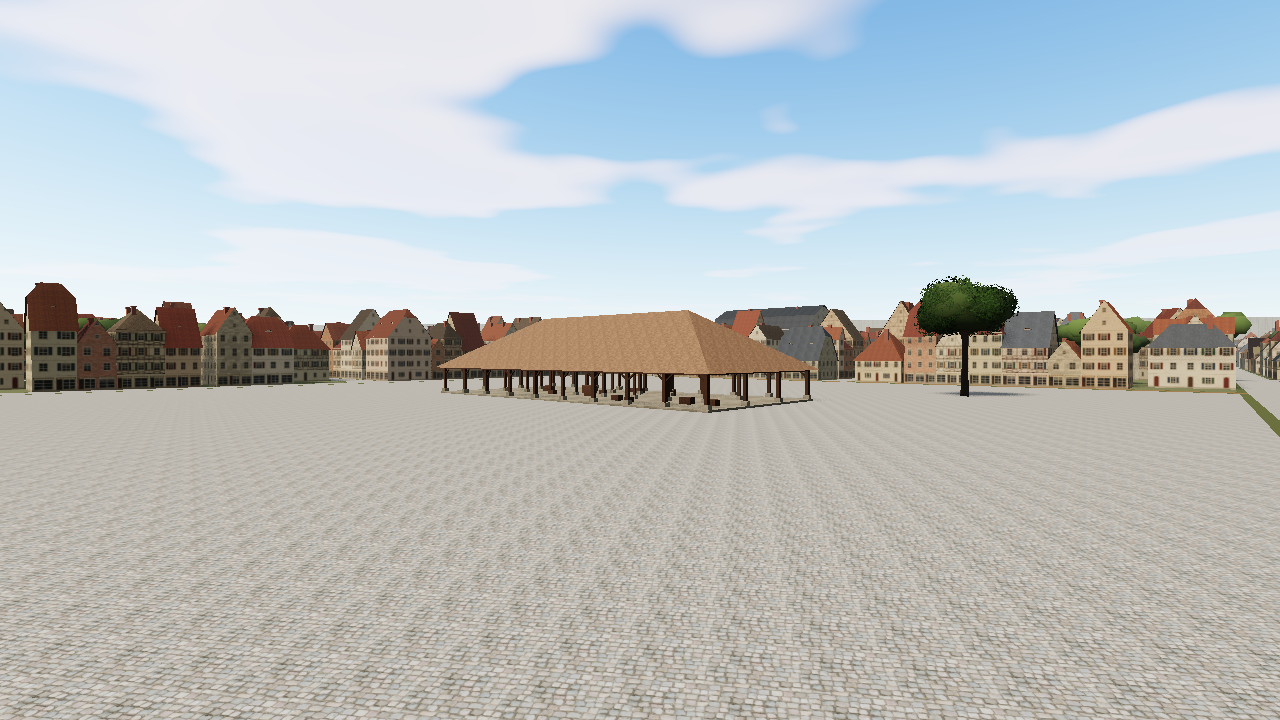
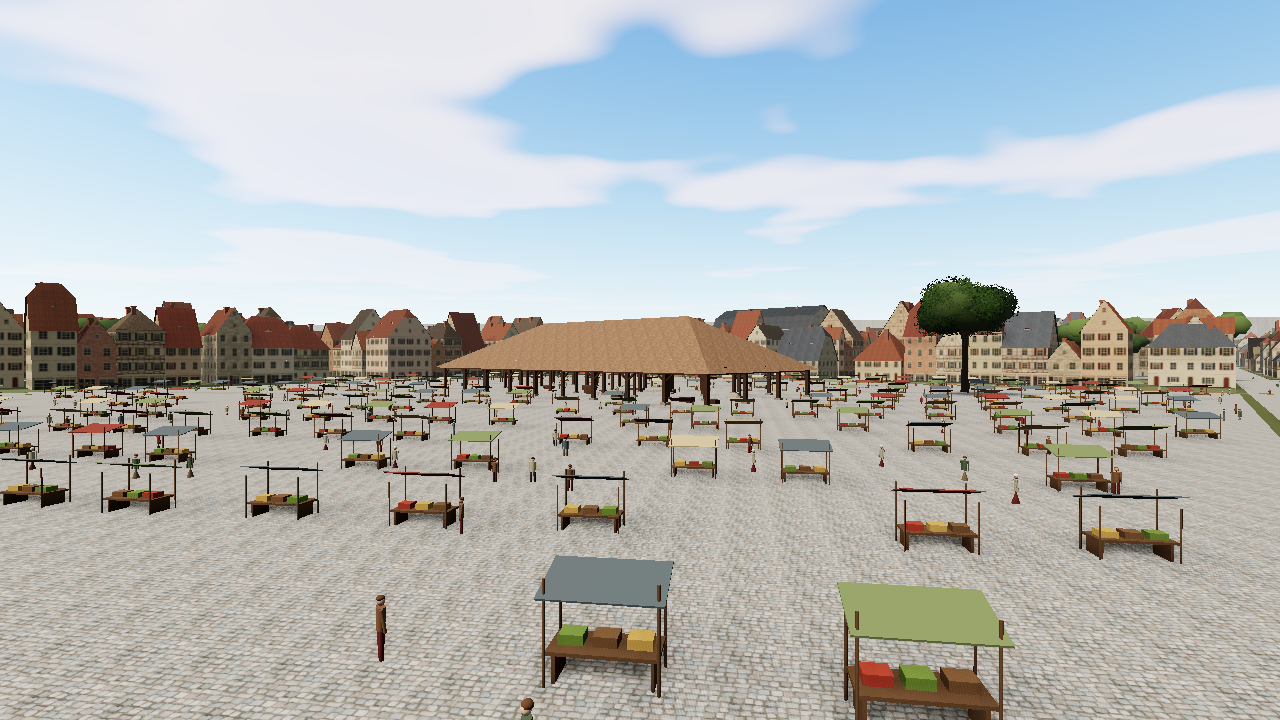
Dette n° 12 (suite) : halle aux draps de Quinta à étage et beffroi, couverture d'ardoise rendue
Claude-Session: https://claude.ai/code/session_01QkVHPRrYAvmotTxhToJVAL

diff --git a/src/render/tactical3d/places/landmarks3d.ts b/src/render/tactical3d/places/landmarks3d.ts
@@ -281,7 +281,11 @@ function hall(k: Kit, b: Building, rand: Rand): void {
   const n = typeof P["piliers"] === "number" ? P["piliers"] : 8;
   const pente = ((typeof P["pente"] === "number" ? P["pente"] : 40) * Math.PI) / 180;
   const eave = 4.6;
-  const rise = Math.min((D / 2) * Math.tan(pente), b.hauteur_m - eave);
+  // Dette n° 12 : halle à étage (`etage` : magasin fermé en pan de bois au-dessus de la halle ouverte, comme une halle aux
+  // draps) et `beffroi` (lanterne à cloche sur le faîtage) ; formes et proportions : choix de rendu (A).
+  const upper = P["etage"] === true ? 4.2 : 0;
+  const roofY = eave + 0.9 + upper;
+  const rise = Math.min((D / 2) * Math.tan(pente), b.hauteur_m - roofY);
   const ruin = (b as Building & { ruin?: number }).ruin ?? 0;
   const stone = new Color(0xb9b0a2);
   box(k, k.stone, -W / 2 - 0.6, W / 2 + 0.6, -D / 2 - 0.6, D / 2 + 0.6, 0, 0.35, stone);
@@ -313,7 +317,41 @@ function hall(k: Kit, b: Building, rand: Rand): void {
         g.dispose();
       }
     }
-  hip(k, k.roof, -W / 2, W / 2, -D / 2, D / 2, eave + 0.9, rise, new Color(b.teinte).lerp(new Color(0xa0644a), 0.55), 1.4);
+  if (upper > 0) {
+    // Étage en encorbellement (0,5 m) : remplissage clair, poteaux et décharges de bois, fenêtres basses en bandeau.
+    const o = 0.5;
+    const y0 = eave + 0.9;
+    const fill = new Color(b.teinte).lerp(new Color(0xe6dcc6), 0.5);
+    box(k, k.stone, -W / 2 - o, W / 2 + o, -D / 2 - o, D / 2 + o, y0, y0 + upper, fill, false);
+    const studs = Math.max(4, Math.round(W / 2.2));
+    for (let i = 0; i <= studs; i++) {
+      const u = -W / 2 - o + (i * (W + 2 * o)) / studs;
+      for (const v of [-D / 2 - o - 0.06, D / 2 + o + 0.06]) box(k, k.wood, u - 0.16, u + 0.16, v - 0.06, v + 0.06, y0, y0 + upper, OAK);
+      if (i < studs && i % 2 === 0)
+        for (const v of [-D / 2 - o - 0.09, D / 2 + o + 0.09]) {
+          const wx = (W + 2 * o) / studs;
+          box(k, k.dark, u + wx * 0.25, u + wx * 0.75, v - 0.04, v + 0.04, y0 + upper * 0.45, y0 + upper * 0.8, GLASS);
+        }
+    }
+    for (const yy of [y0, y0 + upper * 0.4, y0 + upper]) for (const v of [-D / 2 - o - 0.07, D / 2 + o + 0.07]) box(k, k.wood, -W / 2 - o, W / 2 + o, v - 0.07, v + 0.07, yy - 0.12, yy + 0.12, OAK);
+    for (const u of [-W / 2 - o - 0.07, W / 2 + o + 0.07]) {
+      box(k, k.wood, u - 0.07, u + 0.07, -D / 2 - o, D / 2 + o, y0 - 0.12, y0 + 0.12, OAK);
+      box(k, k.wood, u - 0.07, u + 0.07, -D / 2 - o, D / 2 + o, y0 + upper - 0.12, y0 + upper + 0.12, OAK);
+      for (let j = 0; j <= 4; j++) box(k, k.wood, u - 0.06, u + 0.06, -D / 2 - o + (j * (D + 2 * o)) / 4 - 0.16, -D / 2 - o + (j * (D + 2 * o)) / 4 + 0.16, y0, y0 + upper, OAK);
+    }
+  }
+  // Couverture du plan : ardoise grise, sinon tuile plate (teinte de la halle tirée vers le rouge des tuiles).
+  const roofColor = b.couverture === "ardoise" ? SLATE.clone().lerp(new Color(b.teinte), 0.12) : new Color(b.teinte).lerp(new Color(0xa0644a), 0.55);
+  hip(k, k.roof, -W / 2 - (upper ? 0.5 : 0), W / 2 + (upper ? 0.5 : 0), -D / 2 - (upper ? 0.5 : 0), D / 2 + (upper ? 0.5 : 0), roofY, rise, roofColor, 1.4);
+  if (P["beffroi"] === true) {
+    // Lanterne carrée sur le milieu du faîtage : socle, baies ouvertes (cloche), flèche pyramidale.
+    const s = Math.min(D * 0.18, 3.2);
+    const yb = roofY + rise - 0.6;
+    box(k, k.wood, -s, s, -s, s, yb, yb + 2.2, OAK.clone().multiplyScalar(0.9));
+    for (const [u, v] of [[-s, -s], [s, -s], [s, s], [-s, s]] as const) box(k, k.wood, u - 0.22, u + 0.22, v - 0.22, v + 0.22, yb + 2.2, yb + 4.6, OAK);
+    box(k, k.iron, -0.7, 0.7, -0.7, 0.7, yb + 2.6, yb + 3.9, IRON);
+    hip(k, k.roof, -s, s, -s, s, yb + 4.6, s * 2.6, roofColor.clone().lerp(SLATE, 0.6), 0.5);
+  }
   // Sacs et caisses sous la halle (échelle humaine).
   for (let i = 0; i < 14; i++) {
     const u = -W / 2 + 3 + rand() * (W - 6);

diff --git a/src/tools/places/auteur/maria-district-4.ts b/src/tools/places/auteur/maria-district-4.ts
@@ -105,7 +105,8 @@ export function mariaDistrict4(): Place {
       const a = ctx.rot;
       return [
         building({ id: "grande-halle", nom: "Grande halle du marché", canon: "A", archetype: "halle", position: mid(c(170, 595), c(255, 680)), emprise_m: [60, 26], angle_deg: a, hauteur_m: 13, etages: 1, toit: "croupe", couverture: "tuile_plate", facade: "bois", teinte: "#C7AC86", params: { piliers: 10, pente: 42 } }),
-        building({ id: "halle-aux-draps", nom: "Halle aux draps", canon: "A", archetype: "halle", position: mid(c(-255, 680), c(-170, 765)), emprise_m: [44, 22], angle_deg: a, hauteur_m: 12, etages: 1, toit: "croupe", couverture: "ardoise", facade: "bois", teinte: "#CBB896", params: { piliers: 8, pente: 44 } }),
+        // Dette n° 12 : halle aux draps distincte de la grande halle (étage fermé en pan de bois, beffroi), choix de forme (A).
+        building({ id: "halle-aux-draps", nom: "Halle aux draps", canon: "A", archetype: "halle", position: mid(c(-255, 680), c(-170, 765)), emprise_m: [44, 22], angle_deg: a, hauteur_m: 18, etages: 2, toit: "croupe", couverture: "ardoise", facade: "bois", teinte: "#CBB896", params: { piliers: 8, pente: 44, etage: true, beffroi: true } }),
         building({ id: "hotel-de-ville", nom: "Hôtel de ville", canon: "A", archetype: "hotel_de_ville", position: c(170, 510), emprise_m: [40, 20], angle_deg: a, hauteur_m: 16, etages: 4, toit: "mansarde", couverture: "ardoise", facade: "pierre_taillee", teinte: "#E8E0CF", params: { pente: 56 } }),
         building({ id: "maison-du-change", nom: "Maison du Change", canon: "A", archetype: "hotel_de_ville", position: c(340, 340), emprise_m: [26, 16], angle_deg: a, hauteur_m: 13, etages: 3, toit: "croupe", couverture: "ardoise", facade: "pierre_taillee", teinte: "#EDE4D2", params: { pente: 50 } }),
         building({ id: "eglise", nom: "Église du marché", canon: "A", archetype: "eglise", position: c(340, 425), emprise_m: [22, 48], angle_deg: a, hauteur_m: 19, etages: 1, toit: "pignon", couverture: "ardoise", facade: "pierre_taillee", teinte: "#E4DCCB", params: { clocher_m: 52, clocher_cote: 9, abside: true, pente: 52 } }),

diff --git a/docs/reports/dette.md b/docs/reports/dette.md
@@ -15,7 +15,7 @@ Format : **quoi** — où — gravité (faible / moyenne / forte). Tag `LC-repor
 | 9 | États de Shiganshina (CR1e-07) : 845-avant / 850-reprise ΔE 3,4 < 6 après un correctif (essai 1 : 845-brèche / 850-reprise 5,9). Cause mesurée : dans la vue d'ensemble à 2,7 km, la friche, les ruines et les portes bouchées de 850 sont sous le pixel ; seul le ciel diffère. Piste : comparer les états sur une vue plus proche (porte extérieure, Grand-Rue) ou une friche plus marquée. Règle du fichier 24 §4 appliquée (noté, pas d'arrêt) | `places/placeViewer.ts`, `tools/places-captures.ts` | moyenne | R1e.4 ; **en partie** (2026-10-11 : l'abandon de 850 se voit dans la rue : herbe entre les pavés, touffes, chaussées verdies ; `etat-850-reprise-grand-rue.png`) ; ΔE de la vue d'ensemble inchangé (3,3), dominé par la brume |
 | 10 | Vue d'ensemble de l'état 845-brèche : la ville presque effacée par le voile de fumée | `places/placeViewer.ts` (`STATE_FOG`) | faible | R1e.4 ; **corrigé** (2026-10-11 : voile divisé par deux pour les vues à plus de 1 200 m sous un ciel enfumé ; ΔE 845-avant / 845-brèche 18,0, toujours ≥ 6) |
 | 11 | Champs, cours et parcs posés 2 à 6 cm au-dessus de la prairie : rayures (scintillement de profondeur) vus de loin (village des Saules à 1,5 km). Piste : décalage de polygone (`polygonOffset`) sur les couches du sol | `places/ground3d.ts` | faible | R1e.7 ; **corrigé** (décalage de polygone par couche ; `docs/places/village-des-saules/vue-ensemble.png` sans rayures) |
-| 12 | Vues de lieux à revoir : Grand Marché et marché aux Draps de Quinta presque identiques (même halle) ; « port » sans bateau ; places vides (pas d'étals) ; figures d'échelle petites hors Titan | `src/tools/places/auteur/`, `places/scaleFigures.ts` | faible | R1e.7 ; **en partie** (2026-10-11 : étals en rangées sur les places de marché, péniches le long des quais, habitants, n° 6 ; `places/market.ts`) ; reste : halles identiques de Quinta, figures d'échelle |
+| 12 | Vues de lieux à revoir : Grand Marché et marché aux Draps de Quinta presque identiques (même halle) ; « port » sans bateau ; places vides (pas d'étals) ; figures d'échelle petites hors Titan | `src/tools/places/auteur/`, `places/scaleFigures.ts` | faible | R1e.7 ; **en partie** (2026-10-11 : étals en rangées sur les places de marché, péniches le long des quais, habitants, n° 6 ; `places/market.ts`) ; halles de Quinta **distinctes** (2026-10-11 : halle aux draps à étage en pan de bois, beffroi, ardoise) ; reste : figures d'échelle |
 | 13 | Carte, calques Titans et Nourriture : des provinces sans aplat (anneau Rose–Maria vert naturel au calque Titans, Sina et Rose–Maria au calque Nourriture) ne correspondent à aucune case de la légende ; légende Nourriture avec formule de calcul et seuils non arrondis | `src/ui/overlays.ts` | moyenne | MAP (revue D-106) ; **corrigé** (toute province a une teinte de la légende : « hors du territoire tenu » pour Nourriture et Gaz, « inconnu » pour Titans ; seuils ronds 1, 2, 2,5 ou 5 × 10ⁿ ; la formule reste comme « pourquoi » du calque ; `tests/ui/overlays.test.ts`, `smoke:map`, `p1-calque-nourriture.png`) |
 | 14 | Carte, calque politique : le rose voilé des provinces hors Maria se confond avec « aux Titans » ; relief effacé sous l'aplat | `src/render/strategicMap.ts` | faible | MAP (revue D-106) ; **corrigé** (sous un calque, voile du brouillard à 35 % : « aux Titans » voilé reste à ΔE 8 de sa case contre 19 de « perdue » ; aplat à 58 % au lieu de 64 % ; gris « inconnu » couvrant à 72 % ; `tests/ui/overlays.test.ts`, `map-1366-calque-*.png`) |
 | 15 | Carte : ~~quelques noms coupés au bord ou serrés (« Fort avancé de Maria » / « Forêt des Arbres Géants », « Hameaux de l'Ouest de Maria » sur le mur)~~ (**en partie** le 2026-10-11 : test des murs plus fin, petits décalages le long du rayon, liseré papier sous les noms ; « Hameaux de l'Ouest de Maria » et « Plaines intérieures de Maria — Sud » touchent encore l'anneau au niveau région, lisibles) ; relief peu marqué hors du massif nord-ouest ; murs en bande plate à faible ombre ; île presque ronde | `src/render/terrainLayers.ts`, `src/tools/terrain` | faible | MAP (revue D-106) |

diff --git a/docs/reports/dettes-suite.md b/docs/reports/dettes-suite.md
@@ -321,3 +321,17 @@ Les corrections de la 3D (n° 74, 75, 55) sont décrites dans `CONFORMITE-3D.md`
   province sur un mur.
   - Défauts : « 1,2 k » de l'armée collé au nom du segment « Rose-Sud — porte de Trost » ; relief peu marqué ; grands aplats
     de prairie sans nom au sud.
+
+## Dette n° 12 (suite) : halles de Quinta distinctes
+- La halle aux draps (plan d'auteur de Quinta) reçoit un étage fermé en pan de bois au-dessus de la halle ouverte, en
+  encorbellement, et un beffroi sur le faîtage (paramètres `etage` et `beffroi` de l'archétype « halle », A) ; sa couverture
+  d'ardoise est enfin rendue (toutes les halles prenaient la teinte des tuiles). La grande halle reste basse et ouverte.
+- `places:regenerer -- maria-district-4` : seule l'entrée de la halle change dans le JSON ; `places:valider`
+  (`dette12-places-valider.log`) : « places:valider : 4 lieu(x) N1 et 1 plan(s) figé(s) valides. » ; `npm run verify`
+  (`dette12-verify.log`) : « Tests  801 passed (801) », `EXIT=0`.
+- **`vue-marche-aux-draps.png`** : place pavée couverte d'étals ; au fond, la halle aux draps à toit d'ardoise, étage à
+  colombages sur poteaux de bois, beffroi à flèche ; maisons à pignons autour.
+  - Défauts : beffroi un peu grêle pour la masse du toit ; fenêtres de l'étage en simple bandeau sombre ; étals tous
+    alignés, identiques d'une rangée à l'autre ; habitants très petits.
+- **`vue-grand-marche.png`** : la grande halle basse, ouverte, toit de tuiles brun clair, et un grand arbre à droite.
+  - Défauts : toit de la halle uniforme, sans tuiles visibles ; poteaux serrés vus de loin ; ciel identique à l'autre vue.

diff --git a/docs/PROGRESS.md b/docs/PROGRESS.md
@@ -3,8 +3,8 @@
 | Champ | Valeur |
 |---|---|
 | Phase | **PACK terminée** (application Windows Electron : `npm run package:win`, `smoke:pack` ; D-164). Feuille de route V2 achevée (N1 à N3). Suite : dette n° 72 (tenues des soldats, demande de l'utilisateur) et contrôle de conformité de la 3D, puis dettes. |
-| Tâche | Dettes n° 74, 75, 55 (décor), 56, 57, 58, 11, 38, 13, 14, 62, 65 corrigées ; 15 (noms sur les murs), 19 (fond du menu), 21 (libellés, pluriels, signes), 55 (nom du lieu), 70 et 72 (aube, crépuscule, pluie en bataille) en partie ; 31 et 45 en partie (D-166 à D-172) ; dettes suivantes |
-| Dernier `npm run verify` | 2026-10-11 : code 0 ; 129 fichiers, 801 tests (`docs/reports/dette15-verify.log`) |
+| Tâche | Dettes n° 74, 75, 55 (décor), 56, 57, 58, 11, 38, 13, 14, 62, 65 corrigées ; 12 (halles de Quinta), 15 (noms sur les murs), 19 (fond du menu), 21 (libellés, pluriels, signes), 55 (nom du lieu), 70 et 72 (aube, crépuscule, pluie en bataille) en partie ; 31 et 45 en partie (D-166 à D-172) ; dettes suivantes |
+| Dernier `npm run verify` | 2026-10-11 : code 0 ; 129 fichiers, 801 tests (`docs/reports/dette12-verify.log`) |
 | Prochaine étape | PROCHAINE ACTION EXACTE : dettes restantes par gravité (hors `src/sim`, figé depuis R2), puis résumé final des 3 jours le 2026-10-12 vers 19:35 UTC, sur `claude/intelligent-feynman-8ekib4` (mandat autonome jusqu'au 2026-10-12 19:33 UTC, D-148). À faire par Gabriel : `npm run package:win` sur Windows (`docs/LANCER_SUR_WINDOWS.md`) ; mesures GPU (dettes n° 49, 64, 71, 73) |
 
 ## Mandat autonome de trois jours (2026-10-09 → 2026-10-12, D-148)
